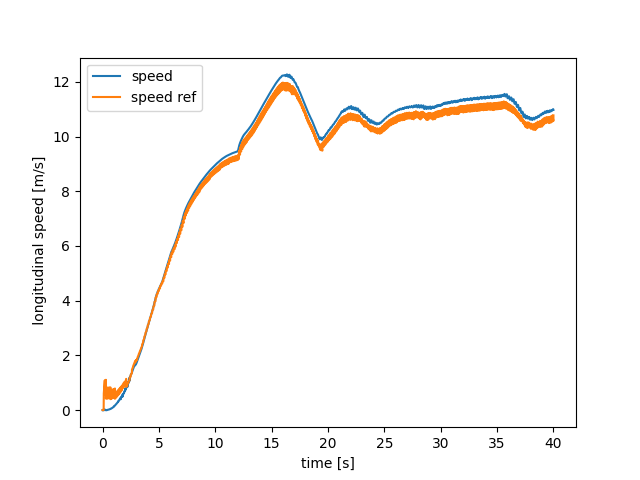
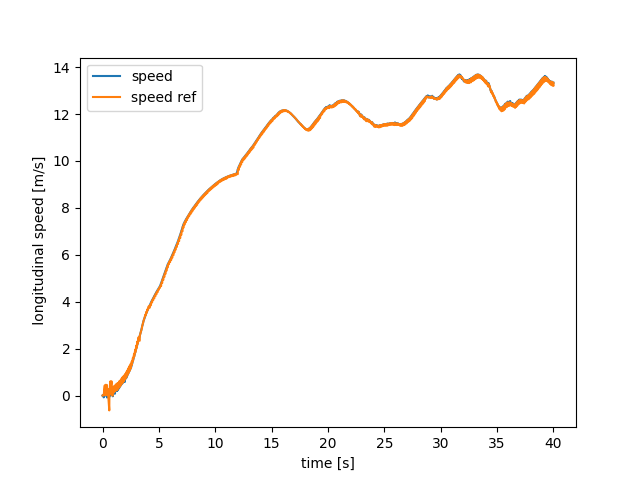
Added chrono_env

diff --git a/MPC_VEH_HMMWV_abu_bahrain_vectorized.py b/MPC_VEH_HMMWV_abu_bahrain_vectorized.py
@@ -39,6 +39,7 @@ from argparse import Namespace
 from regulators.pure_pursuit import *
 from regulators.path_follow_mpc import *
 from models.extended_kinematic import ExtendedKinematicModel
+from models.GP_model_single import GPSingleModel
 from models.configs import *
 from helpers.closest_point import *
 from helpers.track import Track
@@ -350,8 +351,6 @@ if __name__ == '__main__':
     map_name = 'custom_track'  # Nuerburgring, SaoPaulo, rounded_rectangle, l_shape, BrandsHatch, DualLaneChange, custom_track
     use_dyn_friction = False
     gp_mpc_type = 'frenet'  # cartesian, frenet
-    control_period = 100.0  # ms
-    control_step = control_period/(step_size*1000)  # control step in sim steps
     render_every = 30  # render graphics every n sim steps
     constant_speed = True
     constant_friction = 0.7
@@ -427,7 +426,7 @@ if __name__ == '__main__':
 
     path = curve
     print("path\n", path)
-
+ 
     npoints = path.getNumPoints()
 
     path_asset = chrono.ChLineShape()
@@ -455,7 +454,8 @@ if __name__ == '__main__':
     
     # Create the PID lateral controller
     # steeringPID = veh.ChPathSteeringController(path)
-    steeringPID = veh.ChPathSteeringController(mpc_curve) 
+    steeringPID = veh.ChPathSteeringController(mpc_curve)
+    steeringPID.SetLookAheadDistance(5) 
     steeringPID.SetGains(0.8, 0, 0)
     steeringPID.Reset(my_hmmwv.GetVehicle())
 
@@ -507,8 +507,25 @@ if __name__ == '__main__':
 
     vehicle_params = get_vehicle_parameters(my_hmmwv)
 
-    planner_ekin_mpc = STMPCPlanner(model=ExtendedKinematicModel(config=MPCConfigEXT()), waypoints=waypoints,
-                                    config=MPCConfigEXT()) #path_follow_mpc.py
+    correct_config = MPCConfigEXT()
+    correct_config.LENGTH = vehicle_params.LENGTH
+    correct_config.WIDTH = vehicle_params.WIDTH
+    correct_config.LR = vehicle_params.LR
+    correct_config.LF = vehicle_params.LF
+    correct_config.WB = vehicle_params.WB
+    correct_config.MIN_STEER = vehicle_params.MIN_STEER
+    correct_config.MAX_STEER = vehicle_params.MAX_STEER
+    correct_config.MAX_STEER_V = vehicle_params.MAX_STEER_V
+    correct_config.MAX_SPEED = vehicle_params.MAX_SPEED
+    correct_config.MIN_SPEED = vehicle_params.MIN_SPEED
+    correct_config.MAX_ACCEL = vehicle_params.MAX_ACCEL
+    correct_config.MAX_DECEL = vehicle_params.MAX_DECEL
+    correct_config.MASS = vehicle_params.MASS    
+
+    planner_ekin_mpc = STMPCPlanner(model=ExtendedKinematicModel(config=correct_config), waypoints=waypoints,
+                                    config=correct_config) #path_follow_mpc.py
+    
+    control_step = planner_ekin_mpc.config.DTK/step_size  # control step in sim steps
     
     u_acc = []
     # u_steer_speed = [] #steering speed from MPC is not used. ox/oy are used instead
@@ -521,7 +538,7 @@ if __name__ == '__main__':
     target_acc = 0
 
     while lap_counter < num_laps:
-        target_speed += target_acc*step_size
+        # target_speed += target_acc*step_size
         # Render scene
         if (step_number % (render_steps) == 0) :
             vis.BeginScene()
@@ -566,7 +583,8 @@ if __name__ == '__main__':
                 vehicle_state)
             u[0] = u[0] / vehicle_params.MASS  # Force to acceleration
             target_acc = u[0]
-            target_speed = speedPID.GetCurrentSpeed() + target_acc*control_period/1000
+            target_speed = speedPID.GetCurrentSpeed() + target_acc*planner_ekin_mpc.config.DTK
+            # target_speed = speedPID.GetCurrentSpeed()
             u_acc.append(u[0])
             # u_steer_speed.append(u[1])
             t_controlperiod.append(time)
@@ -575,8 +593,8 @@ if __name__ == '__main__':
             # print("mpc ref path y", mpc_ref_path_y)
             # print("mpc pred x", mpc_pred_x)
             # print("mpc pred y", mpc_pred_y)
-            # print("mpc ox", mpc_ox)
-            # print("mpc oy", mpc_oy)
+            print("mpc ox", mpc_ox)
+            print("mpc oy", mpc_oy)
             
             # Update mpc_path_asset with mpc_pred
             mpc_curve_points = [chrono.ChVectorD(mpc_ox[i], mpc_oy[i], 0.6) for i in range(MPC_params.TK + 1)]
@@ -606,13 +624,36 @@ if __name__ == '__main__':
         if time > t_end:
             break
 
-    plt.figure()
-    plt.plot(t_stepsize, speed, label="speed")
-    plt.plot(t_stepsize, speed_ref, label="speed ref")
-    plt.xlabel("time [s]")
-    plt.ylabel(" longitudinal speed [m/s]")
-    plt.legend()
-    plt.savefig("longitudinal_speed.png")
+    # plt.figure()
+    # plt.plot(t_stepsize, speed, label="speed")
+    # plt.plot(t_stepsize, speed_ref, label="speed ref")
+    # plt.xlabel("time [s]")
+    # plt.ylabel(" longitudinal speed [m/s]")
+    # plt.legend()
+    # plt.savefig("longitudinal_speed.png")
+
+    # plt.figure()
+    # plt.plot(t_controlperiod, u_acc, label="acceleration") 
+    # plt.xlabel("time [s]")
+    # plt.ylabel("acceleration [m/s^2]")
+    # plt.legend()
+    # plt.savefig("acceleration.png")
+
+    # plt.show()
+
+    fig, ax = plt.subplots(2,1)
+    ax[0].plot(t_stepsize, speed, label="speed")
+    ax[0].plot(t_stepsize, speed_ref, label="speed ref")
+    ax[0].set_title("longitudinal speed")
+    ax[0].set_xlabel("time [s]")
+    ax[0].set_ylabel(" longitudinal speed [m/s]")
+    ax[0].legend()
+    ax[1].plot(t_controlperiod, u_acc, label="acceleration")
+    ax[0].set_title("longitudinal acceleration")
+    ax[1].set_xlabel("time [s]")
+    ax[1].set_ylabel("acceleration [m/s^2]")
+    ax[1].legend()
+    plt.savefig("longitudinal_speed_and_acceleration.png")
     plt.show()
 
     

diff --git a/chrono_env/utils.py b/chrono_env/utils.py
@@ -1,0 +1,84 @@
+import pychrono as chrono
+import pychrono.vehicle as veh
+import pychrono.irrlicht as chronoirr
+import numpy as np
+import math
+import time
+import matplotlib.pyplot as plt
+
+
+def init_vehicle():
+    # Create the vehicle system
+    my_hmmwv = veh.HMMWV_Full()
+    my_hmmwv.SetContactMethod(chrono.ChContactMethod_SMC)
+    my_hmmwv.SetChassisFixed(False)
+    my_hmmwv.SetInitPosition(chrono.ChCoordsysD(chrono.ChVectorD(0, 0, 0.5),chrono.QUNIT))
+    my_hmmwv.SetPowertrainType(veh.PowertrainModelType_SHAFTS)
+    my_hmmwv.SetDriveType(veh.DrivelineTypeWV_RWD)
+    my_hmmwv.SetSteeringType(veh.SteeringTypeWV_PITMAN_ARM)
+    my_hmmwv.SetTireType(veh.TireModelType_TMEASY)
+    my_hmmwv.SetTireStepSize(step_size)
+    my_hmmwv.Initialize()
+
+    my_hmmwv.SetChassisVisualizationType(veh.VisualizationType_MESH)
+    my_hmmwv.SetSuspensionVisualizationType(veh.VisualizationType_MESH)
+    my_hmmwv.SetSteeringVisualizationType(veh.VisualizationType_MESH)
+    my_hmmwv.SetWheelVisualizationType(veh.VisualizationType_MESH)
+    my_hmmwv.SetTireVisualizationType(veh.VisualizationType_MESH)
+    
+    return my_hmmwv
+
+def init_terrain(friction, patch_coords, waypoints):
+    rest_values = [0.01] * len(patch_coords)
+    young_modulus_values = [2e7] * len(patch_coords)
+    patch_mats = [chrono.ChMaterialSurfaceSMC() for _ in range(len(patch_coords))]
+    for i, patch_mat in enumerate(patch_mats):
+        patch_mat.SetFriction(friction[i])
+        patch_mat.SetRestitution(rest_values[i])
+        patch_mat.SetYoungModulus(young_modulus_values[i])
+
+    terrain = veh.RigidTerrain(my_hmmwv.GetSystem())
+
+    # Loop over the patch materials and coordinates to add each patch to the terrain
+    patches = []
+    for i, patch_mat in enumerate(patch_mats):
+        coords = patch_coords[i]
+        psi = waypoints[i, 3]
+        if i == len(patch_mats) - 1:
+            s = waypoints[i, 0] - waypoints[i-1,0]
+        else:    
+            s = waypoints[i+1, 0] - waypoints[i,0]
+        r = chrono.ChQuaternionD()
+        r.Q_from_AngZ(psi)
+        patch = terrain.AddPatch(patch_mat, chrono.ChCoordsysD(chrono.ChVectorD(coords[0], coords[1], coords[2]), r), s, s)
+        patches.append(patch)
+
+    viz_patch = terrain.AddPatch(patch_mats[2], chrono.CSYSNORM, s, s)
+    
+    # Set color of patch based on friction value
+    for i, patch in enumerate(patches):
+        # print(friction[i])
+        RGB_value = 1 - (friction[i] - 0.4)
+        # print(RGB_value, friction[i])
+        patch.SetColor(chrono.ChColor(RGB_value, RGB_value, RGB_value))
+
+    # for patch in patches:
+    #     patch.SetTexture(veh.GetDataFile("terrain/textures/concrete.jpg"), 10, 10)
+
+    terrain.Initialize()
+    return terrain, viz_patch
+
+def init_irrlicht_vis(ego_vehicle):
+    # Create the vehicle Irrlicht interface
+    vis = veh.ChWheeledVehicleVisualSystemIrrlicht()
+    vis.SetWindowTitle('Constant radius test')
+    vis.SetWindowSize(1280, 1024)
+    vis.SetHUDLocation(500, 20)
+    vis.Initialize()
+    vis.AddLogo()
+    vis.AddLightDirectional()
+    vis.SetChaseCamera(chrono.ChVectorD(0.0, 0.0, 1.75), 6.0, 4.5)
+    vis.AddSkyBox()
+    vis.AttachVehicle(ego_vehicle.GetVehicle())
+
+    return vis

diff --git a/test_acc_steerspeed.py b/test_acc_steerspeed.py
@@ -39,22 +39,39 @@ def main():
     #print("Copyright (c) 2017 projectchrono.org\nChrono version: ", CHRONO_VERSION , "\n\n")
 
     #  Create the HMMWV vehicle, set parameters, and initialize
+    # my_hmmwv = veh.HMMWV_Full()
+    # my_hmmwv.SetContactMethod(contact_method)
+    # my_hmmwv.SetChassisFixed(False) 
+    # my_hmmwv.SetInitPosition(chrono.ChCoordsysD(initLoc, chrono.ChQuaternionD(1, 0, 0, 0)))
+    # my_hmmwv.SetPowertrainType(powertrain_model)
+    # my_hmmwv.SetDriveType(drive_type)
+    # my_hmmwv.SetSteeringType(steering_type)
+    # my_hmmwv.SetTireType(tire_model)
+    # my_hmmwv.SetTireStepSize(tire_step_size)
+    # my_hmmwv.Initialize()
+
+    # my_hmmwv.SetChassisVisualizationType(chassis_vis_type)
+    # my_hmmwv.SetSuspensionVisualizationType(suspension_vis_type)
+    # my_hmmwv.SetSteeringVisualizationType(steering_vis_type)
+    # my_hmmwv.SetWheelVisualizationType(wheel_vis_type)
+    # my_hmmwv.SetTireVisualizationType(tire_vis_type)
+
     my_hmmwv = veh.HMMWV_Full()
-    my_hmmwv.SetContactMethod(contact_method)
-    my_hmmwv.SetChassisFixed(False) 
-    my_hmmwv.SetInitPosition(chrono.ChCoordsysD(initLoc, chrono.ChQuaternionD(1, 0, 0, 0)))
-    my_hmmwv.SetPowertrainType(powertrain_model)
-    my_hmmwv.SetDriveType(drive_type)
-    my_hmmwv.SetSteeringType(steering_type)
-    my_hmmwv.SetTireType(tire_model)
-    my_hmmwv.SetTireStepSize(tire_step_size)
+    my_hmmwv.SetContactMethod(chrono.ChContactMethod_SMC)
+    my_hmmwv.SetChassisFixed(False)
+    my_hmmwv.SetInitPosition(chrono.ChCoordsysD(chrono.ChVectorD(0, 0, 0.5),chrono.QUNIT))
+    my_hmmwv.SetPowertrainType(veh.PowertrainModelType_SHAFTS)
+    my_hmmwv.SetDriveType(veh.DrivelineTypeWV_RWD)
+    my_hmmwv.SetSteeringType(veh.SteeringTypeWV_PITMAN_ARM)
+    my_hmmwv.SetTireType(veh.TireModelType_TMEASY)
+    my_hmmwv.SetTireStepSize(step_size)
     my_hmmwv.Initialize()
 
-    my_hmmwv.SetChassisVisualizationType(chassis_vis_type)
-    my_hmmwv.SetSuspensionVisualizationType(suspension_vis_type)
-    my_hmmwv.SetSteeringVisualizationType(steering_vis_type)
-    my_hmmwv.SetWheelVisualizationType(wheel_vis_type)
-    my_hmmwv.SetTireVisualizationType(tire_vis_type)
+    my_hmmwv.SetChassisVisualizationType(veh.VisualizationType_MESH)
+    my_hmmwv.SetSuspensionVisualizationType(veh.VisualizationType_MESH)
+    my_hmmwv.SetSteeringVisualizationType(veh.VisualizationType_MESH)
+    my_hmmwv.SetWheelVisualizationType(veh.VisualizationType_MESH)
+    my_hmmwv.SetTireVisualizationType(veh.VisualizationType_MESH)
 
     # my_vehicle = my_hmmwv.GetVehicle()
     # print(my_vehicle.GetMaxSteeringAngle())

diff --git a/models/configs.py b/models/configs.py
@@ -5,7 +5,7 @@ import numpy as np
 class MPCConfigEXT:
     NXK: int = 7  # length of kinematic state vector: z = [x, y, vx, yaw angle, vy, yaw rate, steering angle]
     NU: int = 2  # length of input vector: u = = [acceleration, steering speed]
-    TK: int = 15  # finite time horizon length kinematic
+    TK: int = 30  # finite time horizon length kinematic
 
     Rk: list = field(
         default_factory=lambda: np.diag([0.000001, 2.0])

diff --git a/helpers/track.py b/helpers/track.py
@@ -38,7 +38,7 @@ class Track:
         self.right_boundary = None
         self.calculate_trajectory(reference_speed)
         self.calculate_trajectory_boundary()
-        # self.show_trajectory()
+        self.show_trajectory()
 
     def calculate_trajectory_boundary(self):
         # initialize vector [number_of_points, 2]
